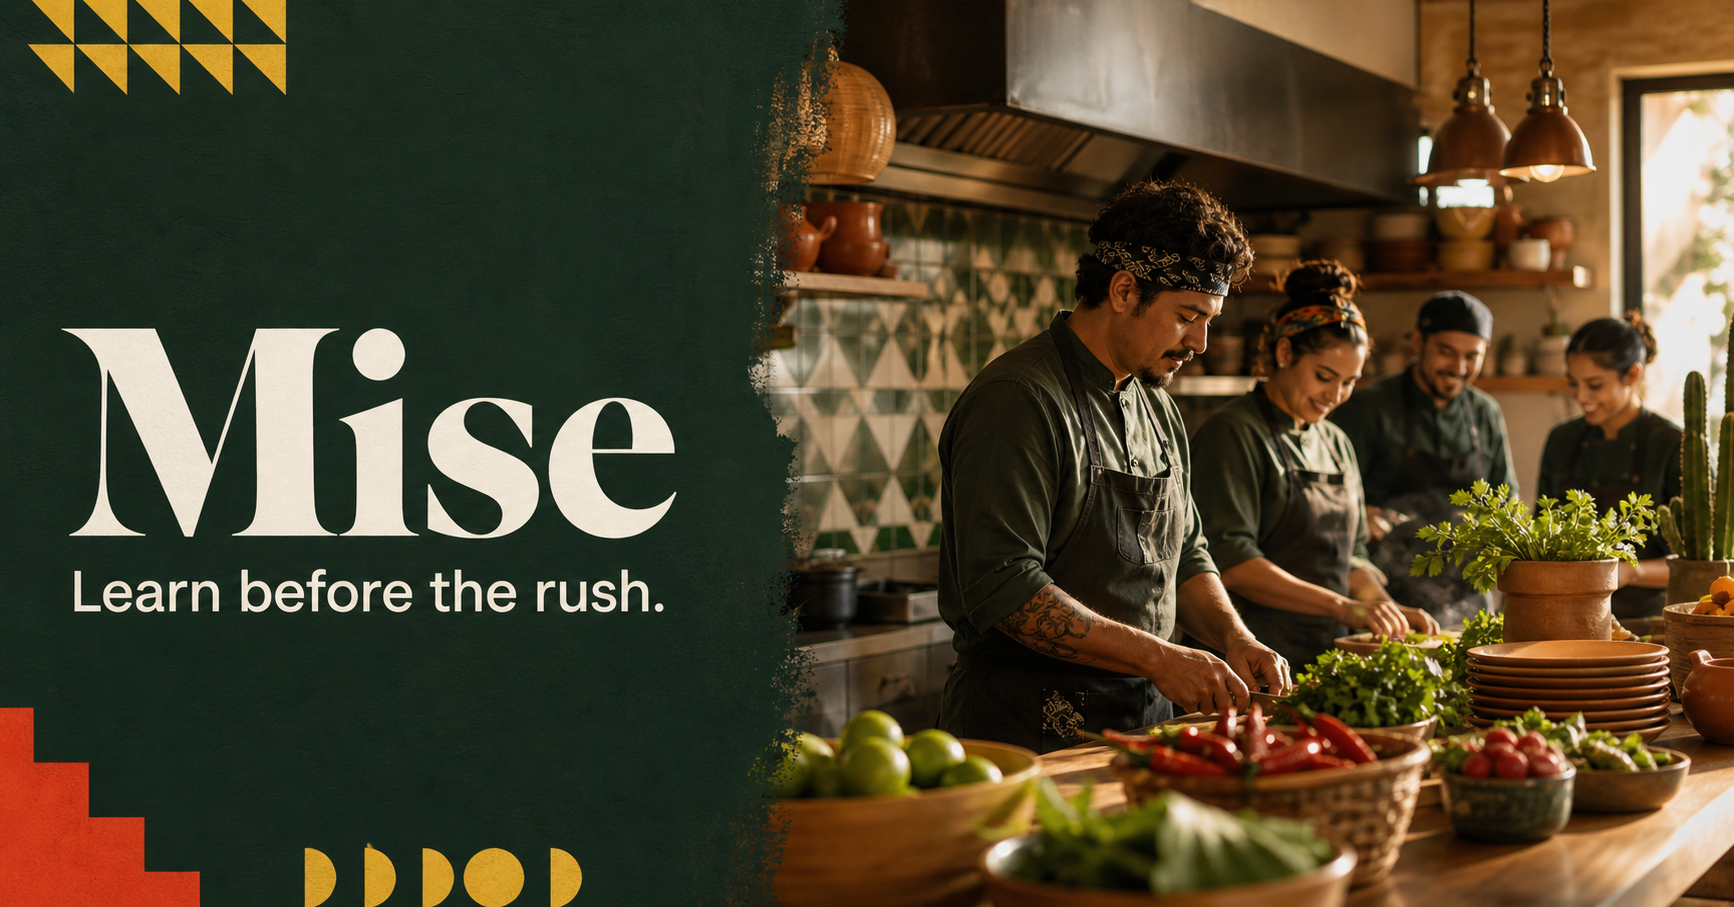
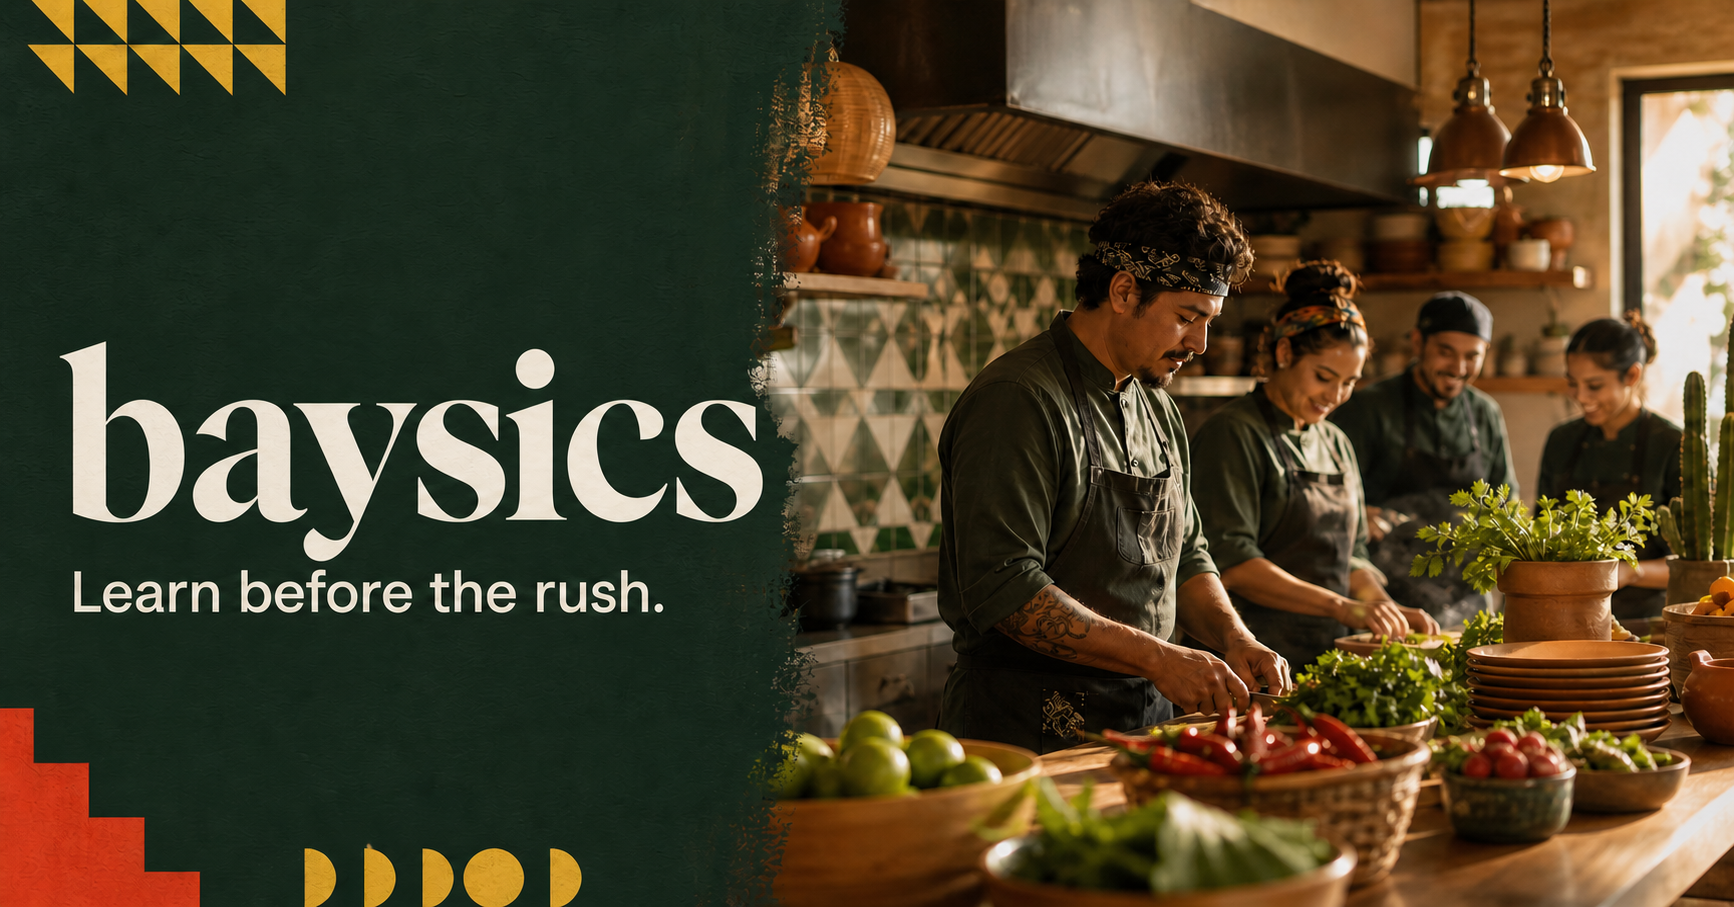
Rename product to baysics

diff --git a/app/components/dashboard/EmployeeDashboard.tsx b/app/components/dashboard/EmployeeDashboard.tsx
@@ -10,7 +10,7 @@ import { readStorage, STORAGE_KEYS } from "../../lib/storage";
 const icons=[BookOpen,BookCheck,ChefHat,ClipboardCheck,ChefHat,Play,Lock];
 export function EmployeeDashboard(){
   const [lessonDone,setLessonDone]=useState(false); const [quizScore,setQuizScore]=useState<number|null>(null);
-  useEffect(()=>{const sync=()=>{setLessonDone(readStorage<string[]>(STORAGE_KEYS.lessons,[]).includes("chips-and-tortillas"));const q=readStorage<Record<string,number>>(STORAGE_KEYS.quiz,{});setQuizScore(q.fryer??null)};sync();window.addEventListener("mise-storage",sync);return()=>window.removeEventListener("mise-storage",sync)},[]);
+  useEffect(()=>{const sync=()=>{setLessonDone(readStorage<string[]>(STORAGE_KEYS.lessons,[]).includes("chips-and-tortillas"));const q=readStorage<Record<string,number>>(STORAGE_KEYS.quiz,{});setQuizScore(q.fryer??null)};sync();window.addEventListener("baysics-storage",sync);return()=>window.removeEventListener("baysics-storage",sync)},[]);
   const overall=lessonDone?71:68;
   return <><div><p className="eyebrow" style={{color:"var(--chilli)"}}>Tu progreso</p><h1 className="display app-title">Your kitchen pathway.</h1></div><section className="featured"><div className="featured-copy"><span className="tag" style={{color:"var(--charcoal)"}}>Current station · Estación fría</span><h2 className="display">Cold Station Fundamentals</h2><p style={{opacity:.74}}>Five of eight lessons completed · 18 minutes remaining</p><div className="row between"><strong>65% complete</strong><span>5 / 8 lessons</span></div><div className="progress" style={{margin:"12px 0 26px"}}><span style={{width:"65%"}}/></div><Link className="btn btn-primary" href="/employee/training/cold-station">Continue Module <ArrowRight size={18}/></Link></div><img className="featured-image" src={brand.images.coldStation} alt="Colourful fresh ingredients arranged at a cold restaurant station"/></section><div className="stat-grid"><Stat icon={<BookCheck/>} value="4 of 7" label="Modules completed"/><Stat icon={<Trophy/>} value={quizScore!==null?"3 passed":"2 passed"} label="Quizzes passed"/><Stat icon={<ClipboardCheck/>} value="1 pending" label="Practical checklist"/><Stat icon={<ChefHat/>} value={`${overall}%`} label="Overall progress"/></div><div className="dashboard-grid"><section className="panel"><div className="row between"><div><p className="eyebrow muted">Entrenamiento</p><h2 className="panel-title">Training pathway</h2></div><Link href="/employee/training" className="btn btn-outline">View all</Link></div><div className="module-list">{trainingModules.map((m,index)=>{const Icon=icons[index];const progress=m.id==="fryer-station"&&lessonDone?38:m.progress;return <article className="module-row" key={m.id}><span className="icon-box"><Icon size={20}/></span><div><strong>{m.title}</strong><div className="muted" style={{fontSize:12}}>{m.microLabel} · {m.lessons} lessons</div></div><div><div className="row between" style={{fontSize:12}}><span>{m.status.replace("-"," ")}</span><strong>{progress}%</strong></div><div className="progress" style={{marginTop:7}}><span style={{width:`${progress}%`}}/></div></div>{m.status==="locked"?<span className="tag"><Lock size={13}/> Locked</span>:<Link className="btn btn-outline" href={`/employee/training/${m.id}`}>{m.status==="completed"?"Review":"Continue"}</Link>}</article>})}</div></section><aside className="panel shift-card"><p className="eyebrow">Próximo turno</p><p className="shift-date">{brand.demoShift}</p><strong>4:00 PM–10:30 PM</strong><p>Cold Station · Trainer: Sofia R.</p><div className="skill-list"><strong>Skills to review</strong><span><Check size={15}/> Station opening sequence</span><span><Check size={15}/> Guacamole quality check</span><span><Check size={15}/> Allergy callouts</span></div><Link href="/employee/checklists" className="btn btn-dark">Review Checklist</Link>{quizScore!==null&&<p style={{marginTop:20,fontWeight:800}}>Latest fryer quiz: {quizScore}%</p>}</aside></div></>;
 }

diff --git a/app/components/quiz/QuizExperience.tsx b/app/components/quiz/QuizExperience.tsx
@@ -9,7 +9,7 @@ import { readStorage, STORAGE_KEYS, writeStorage } from "../../lib/storage";
 export function QuizExperience(){
   const [index,setIndex]=useState(0);const [selected,setSelected]=useState("");const [checked,setChecked]=useState(false);const [correct,setCorrect]=useState(0);const [done,setDone]=useState(false);const q=quizQuestions[index];
   const submit=()=>{if(!selected)return;setChecked(true);if(selected===q.answer)setCorrect(v=>v+1)};
-  const next=()=>{if(index===quizQuestions.length-1){const score=Math.round((correct/quizQuestions.length)*100);const results=readStorage<Record<string,number>>(STORAGE_KEYS.quiz,{});writeStorage(STORAGE_KEYS.quiz,{...results,fryer:score});window.dispatchEvent(new Event("mise-storage"));setDone(true)}else{setIndex(v=>v+1);setSelected("");setChecked(false)}};
+  const next=()=>{if(index===quizQuestions.length-1){const score=Math.round((correct/quizQuestions.length)*100);const results=readStorage<Record<string,number>>(STORAGE_KEYS.quiz,{});writeStorage(STORAGE_KEYS.quiz,{...results,fryer:score});window.dispatchEvent(new Event("baysics-storage"));setDone(true)}else{setIndex(v=>v+1);setSelected("");setChecked(false)}};
   const reset=()=>{setIndex(0);setSelected("");setChecked(false);setCorrect(0);setDone(false)};
   if(done){const score=Math.round((correct/quizQuestions.length)*100);const passed=score>=80;return <div className="quiz-shell"><div className="card quiz-question" style={{textAlign:"center"}}>{passed?<CheckCircle2 size={65} color="var(--agave)"/>:<XCircle size={65} color="var(--chilli)"/>}<p className="eyebrow" style={{marginTop:20}}>{passed?"Knowledge check passed":"Review recommended"}</p><h1 className="display" style={{fontSize:70,margin:"10px 0"}}>{score}%</h1><p className="muted">You answered {correct} of {quizQuestions.length} questions correctly.</p><div className="hero-actions" style={{justifyContent:"center"}}><button className="btn btn-outline" onClick={reset}><RotateCcw size={17}/> Retake Quiz</button><Link className="btn btn-primary" href="/employee">Continue Training <ArrowRight size={17}/></Link></div></div></div>}
   const isCorrect=selected===q.answer;

diff --git a/app/layout.tsx b/app/layout.tsx
@@ -17,7 +17,7 @@ export async function generateMetadata(): Promise<Metadata> {
     title: `${brand.name} — ${brand.tagline}`,
     description: "A warm, practical restaurant employee learning platform demo.",
     icons: { icon: "/favicon.svg", shortcut: "/favicon.svg" },
-    openGraph: { title: `${brand.name} — ${brand.tagline}`, description: "Restaurant training before the first practical shift.", images: [{ url: "/og.png", width: 1792, height: 929, alt: "Mise — Learn before the rush." }] },
+    openGraph: { title: `${brand.name} — ${brand.tagline}`, description: "Restaurant training before the first practical shift.", images: [{ url: "/og.png", width: 1792, height: 929, alt: "baysics — Learn before the rush." }] },
     twitter: { card: "summary_large_image", title: `${brand.name} — ${brand.tagline}`, description: "Restaurant training before the first practical shift.", images: ["/og.png"] },
   };
 }

diff --git a/app/lib/storage.ts b/app/lib/storage.ts
@@ -1,4 +1,4 @@
-export const STORAGE_KEYS = { lessons:"mise.completedLessons",quiz:"mise.quizResults",checklists:"mise.checklists",preferences:"mise.preferences" } as const;
+export const STORAGE_KEYS = { lessons:"baysics.completedLessons",quiz:"baysics.quizResults",checklists:"baysics.checklists",preferences:"baysics.preferences" } as const;
 
 export function readStorage<T>(key: string, fallback: T): T {
   if (typeof window === "undefined") return fallback;
@@ -12,5 +12,5 @@ export function writeStorage<T>(key: string, value: T) {
 export function resetDemoStorage() {
   if (typeof window === "undefined") return;
   Object.values(STORAGE_KEYS).forEach((key) => window.localStorage.removeItem(key));
-  window.dispatchEvent(new Event("mise-storage"));
+  window.dispatchEvent(new Event("baysics-storage"));
 }

diff --git a/app/config/brand.ts b/app/config/brand.ts
@@ -1,9 +1,9 @@
 export const brand = {
-  name: "Mise",
+  name: "baysics",
   tagline: "Learn before the rush.",
   restaurantName: "Casa Mercado",
   restaurantCode: "CASA-DEMO",
-  contactEmail: "hello@mise.demo",
+  contactEmail: "hello@baysics.demo",
   demoShift: "Tuesday, August 4",
   colors: { cactus: "#26352B", chilli: "#D85032", marigold: "#E9A23B", tortilla: "#F2CB4D", masa: "#F4EBDD", cream: "#FFF9EF", agave: "#72865B", charcoal: "#25231F", warmGrey: "#766E63", clay: "#D8C9B5" },
   images: {

diff --git a/app/components/training/LessonPage.tsx b/app/components/training/LessonPage.tsx
@@ -23,7 +23,7 @@ export function LessonPage({ moduleId }: { moduleId: string }) {
     const ids = readStorage<string[]>(STORAGE_KEYS.lessons, []);
     if (!ids.includes(fryerLesson.id)) writeStorage(STORAGE_KEYS.lessons, [...ids, fryerLesson.id]);
     setCompleted(true);
-    window.dispatchEvent(new Event("mise-storage"));
+    window.dispatchEvent(new Event("baysics-storage"));
   };
 
   const progress = completed ? Math.min(100, trainingModule.progress + 13) : trainingModule.progress;

diff --git a/README.md b/README.md
@@ -1,8 +1,8 @@
-# Mise — Restaurant Training Demo
+# baysics — Restaurant Training Demo
 
 **Learn before the rush.**
 
-Mise is a polished frontend concept for helping restaurant employees learn essential information before practical shifts. It combines a story-led public website with employee training and manager oversight demos. The content is fictional demonstration material and is not intended as real food-safety or operating instruction.
+baysics is a polished frontend concept for helping restaurant employees learn essential information before practical shifts. It combines a story-led public website with employee training and manager oversight demos. The content is fictional demonstration material and is not intended as real food-safety or operating instruction.
 
 ## Features
 
@@ -84,7 +84,7 @@ No authentication is performed and no form data is transmitted.
 
 ## Local storage
 
-The prototype stores completed lessons, quiz scores, checklist checks, and demo preferences in the current browser. Keys are defined in `app/lib/storage.ts`. The persistent Demo control includes **Reset**, which removes all Mise demo keys without touching unrelated browser data.
+The prototype stores completed lessons, quiz scores, checklist checks, and demo preferences in the current browser. Keys are defined in `app/lib/storage.ts`. The persistent Demo control includes **Reset**, which removes all baysics demo keys without touching unrelated browser data.
 
 ## Replacing branding
 
